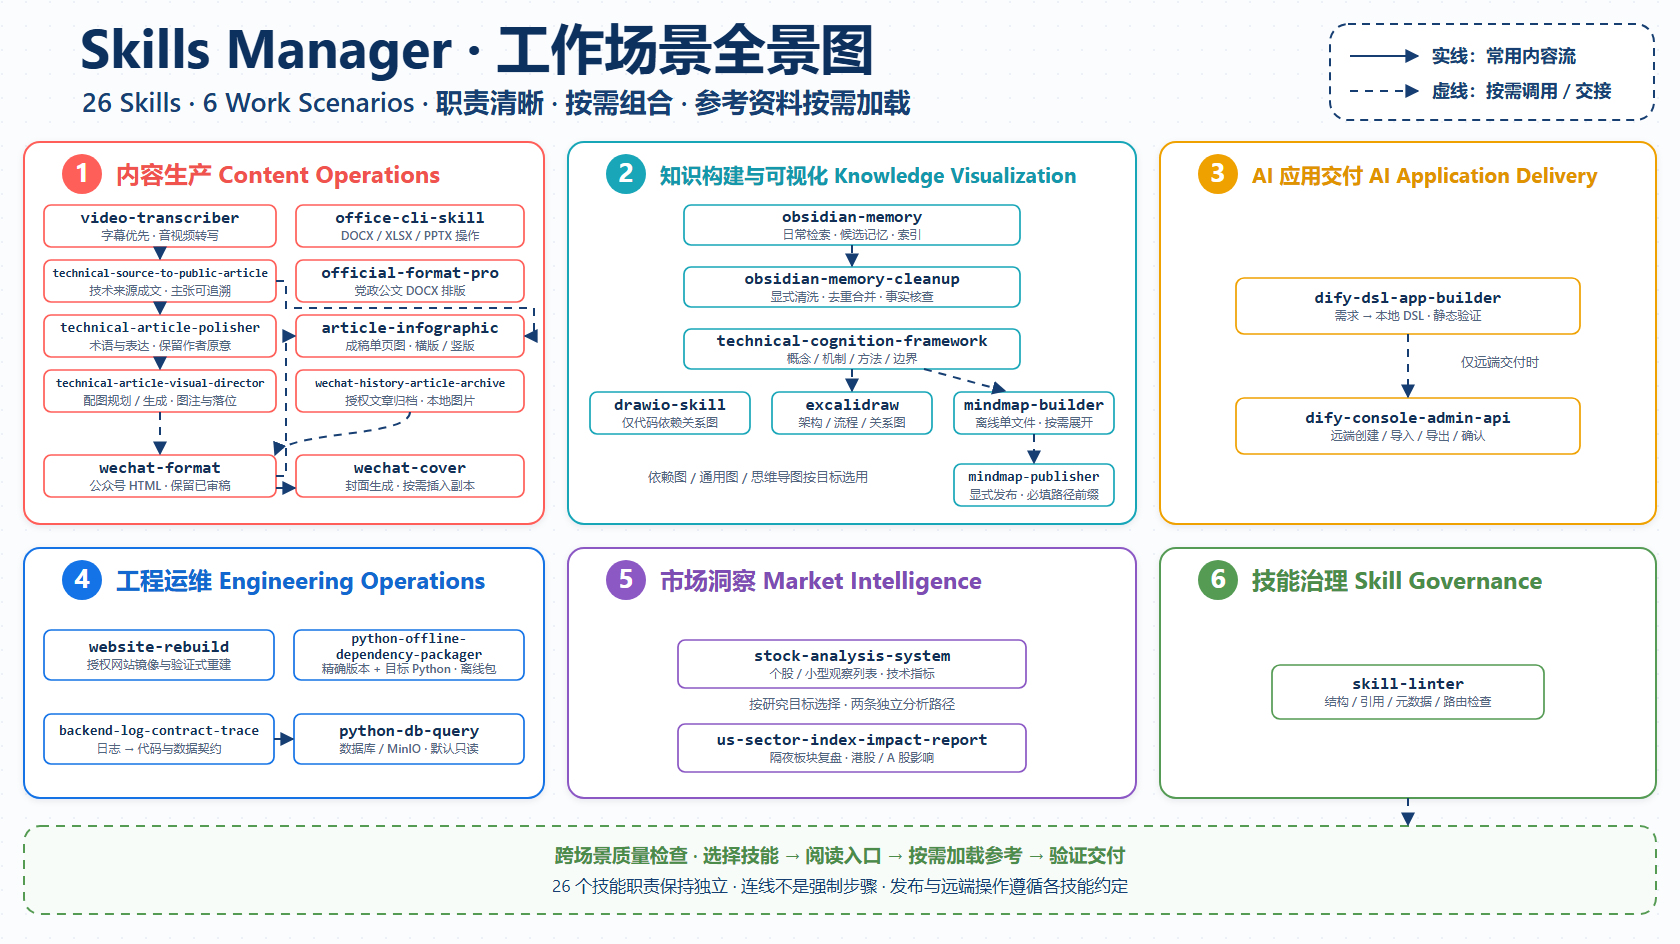
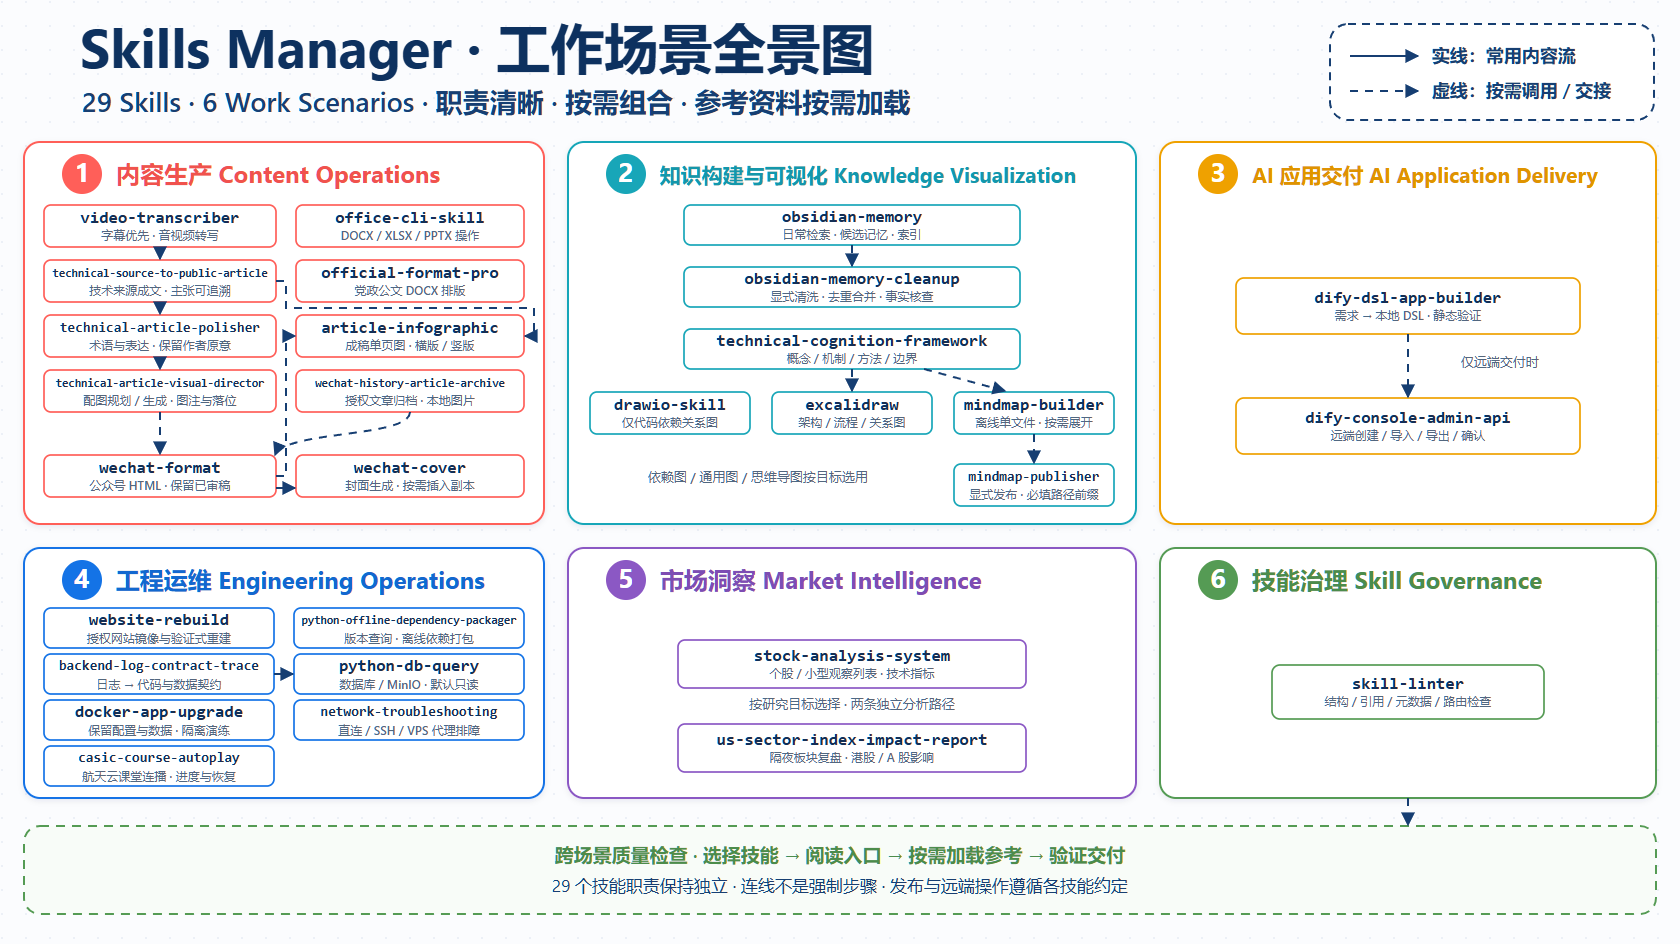
docs: refresh skills map and routing guide

diff --git a/docs/skill-relationships.md b/docs/skill-relationships.md
@@ -29,6 +29,9 @@
 | Dify 本地 DSL / 远端操作 | dify-dsl-app-builder / dify-console-admin-api；仅远端交付才衔接 |
 | 后端契约诊断 / 数据验证 | backend-log-contract-trace；需要查库时调用 python-db-query |
 | 网站重建 / Python 离线依赖 | website-rebuild / python-offline-dependency-packager，各自独立 |
+| Docker 应用升级或隔离演练 | docker-app-upgrade，保留现有配置与持久化数据 |
+| 直连、SSH 或 VPS 代理排障 | network-troubleshooting，沿实际路径定位并复测 |
+| 航天云课堂连播 | casic-course-autoplay，按用户明确要求播放、检查进度或恢复 |
 | 个股技术分析 / 隔夜板块影响 | stock-analysis-system / us-sector-index-impact-report，两条独立路径 |
 | 技能维护验收 | skill-linter，检查结构与路由，不是普通业务任务的前置步骤 |
 
